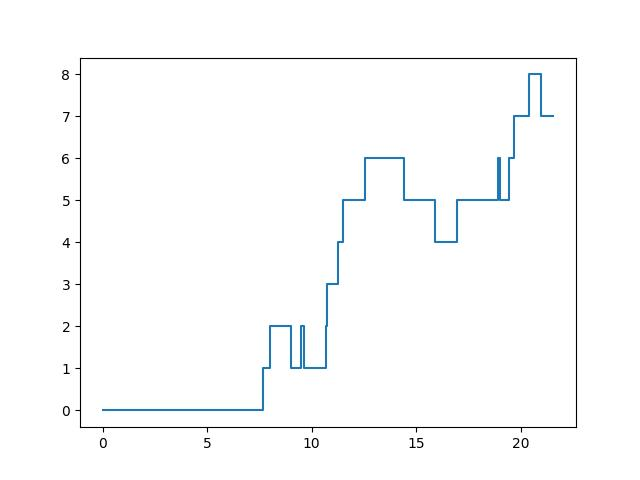
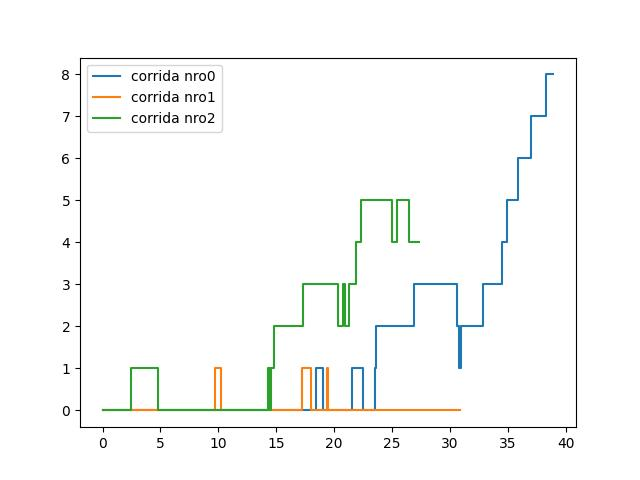
Agregadas las corridas, arreglados problemas de formato

diff --git a/TP3/MM1/simulacionMM1.py b/TP3/MM1/simulacionMM1.py
@@ -1,4 +1,7 @@
 import random
+import array as arr
+import statistics
+import math
 import sys
 import matplotlib.pyplot as plt
 
@@ -7,12 +10,13 @@ LIMITE_COLA = 100
 OCUPADO = 1
 LIBRE = 0
 
-if len(sys.argv)!=7 or sys.argv[1]!="-m" or sys.argv[3]!="-s" or sys.argv[5]!="-n":
-    print("Uso: python simulacionMM1.py -m <media_intervalo_arrivos> -s <media_tiempo_servicio> -n <numero_atrasos_necesario>")
+if len(sys.argv)!=9 or sys.argv[1]!="-m" or sys.argv[3]!="-s" or sys.argv[5]!="-n" or sys.argv[7]!="-i":
+    print("Uso: python simulacionMM1.py -m <media_intervalo_arrivos> -s <media_tiempo_servicio> -n <numero_atrasos_necesario> -i <numero_corridas>")
     sys.exit(1)
 media_intarvalo_arrivos = float(sys.argv[2])
 media_tiempo_servicio = float(sys.argv[4])
 num_atrasos_necesarios = int(sys.argv[6])
+nro_corridas = int(sys.argv[8])
 
 tipo_proximo_evento, num_cli_atrasados, num_eventos, num_en_cola, estado_servidor = 0, 0, 0, 0, 0
 area_num_en_cola, area_estado_servidor, tiempo_simulacion, total_retrasos = 0.0, 0.0, 0.0, 0.0
@@ -94,11 +98,12 @@ def salida():
             tiempo_arribo[i] = tiempo_arribo[i + 1]
 
 #-------------------------------------------------------------------------------------------------#
-def reporte():
-    f.write("\n\nTiempo promedio de demora en cola "+str(total_retrasos/num_cli_atrasados)+" minutos\n\n")
-    f.write("\n\nNumero promedio en cola "+str(area_num_en_cola/tiempo_simulacion)+"\n\n")
-    f.write("\n\nUtilizacion del servidor "+str(area_estado_servidor/tiempo_simulacion)+"\n\n")
-    f.write("\n\nTiempo de simulacion finalizada "+str(tiempo_simulacion)+" minutos\n\n")
+def reporte(x):
+    f.write("\nResultados para corrida numero: "+str(x+1)+" --------------------------------------------------\n")
+    f.write("\nTiempo promedio de demora en cola "+str(total_retrasos/num_cli_atrasados)+" minutos\n")
+    f.write("\nNumero promedio en cola "+str(area_num_en_cola/tiempo_simulacion)+"\n")
+    f.write("\nUtilizacion del servidor "+str(area_estado_servidor/tiempo_simulacion)+"\n")
+    f.write("\nTiempo de simulacion finalizada "+str(tiempo_simulacion)+" minutos\n")
 
 #-------------------------------------------------------------------------------------------------#
 def actualizacion_tiempo_prom_estadisticas():
@@ -120,24 +125,34 @@ f.write("Sistema de colas con unico servidor\n\n")
 f.write("Media de tiempo entre entre arribos " + str(media_intarvalo_arrivos) + " minutos\n")
 f.write("Media de tiempo de servicio " + str(media_tiempo_servicio) + " minutos\n")
 f.write("Numero de clientes " + str(num_atrasos_necesarios) + "\n")
-inicializar()
-while(num_cli_atrasados < num_atrasos_necesarios):
-    eje_x.append(tiempo_simulacion)
-    eje_y.append(num_en_cola)
-    eje_y_serv.append(estado_servidor)
-    temporizador()
-    actualizacion_tiempo_prom_estadisticas()
-    if(tipo_proximo_evento == 1):
-        arribo()
-        
-    elif(tipo_proximo_evento == 2):
-        salida()
-    i = i + 1   
-reporte()
 t = plt.figure(1)
-plt.step(eje_x,eje_y)
-t.savefig("grafica_numero_clientes_en_cola.jpg")
 t2 = plt.figure(2)
-plt.step(eje_x, eje_y_serv)
+for x in range(nro_corridas):
+    eje_x = []  
+    eje_y = []
+    eje_y_serv = []
+    inicializar()
+    while(num_cli_atrasados < num_atrasos_necesarios):
+        eje_x.append(tiempo_simulacion)
+        eje_y.append(num_en_cola)
+        eje_y_serv.append(estado_servidor)
+        temporizador()
+        actualizacion_tiempo_prom_estadisticas()
+        if(tipo_proximo_evento == 1):
+            arribo()
+            
+        elif(tipo_proximo_evento == 2):
+            salida()
+        i = i + 1   
+    reporte(x)
+    plt.figure(1)
+    plt.step(eje_x,eje_y, color = "C" + str(x % 10), label = "corrida nro"+str(x))
+    plt.figure(2)
+    plt.step(eje_x,eje_y_serv, color = "C" + str(x % 10), label = "corrida nro"+str(x))
+plt.figure(1)
+plt.legend()
+t.savefig("grafica_numero_clientes_en_cola.jpg")
+plt.figure(2)
+plt.legend()
 t2.savefig("grafica_ocupacion_servidor.jpg")
 f.close()
